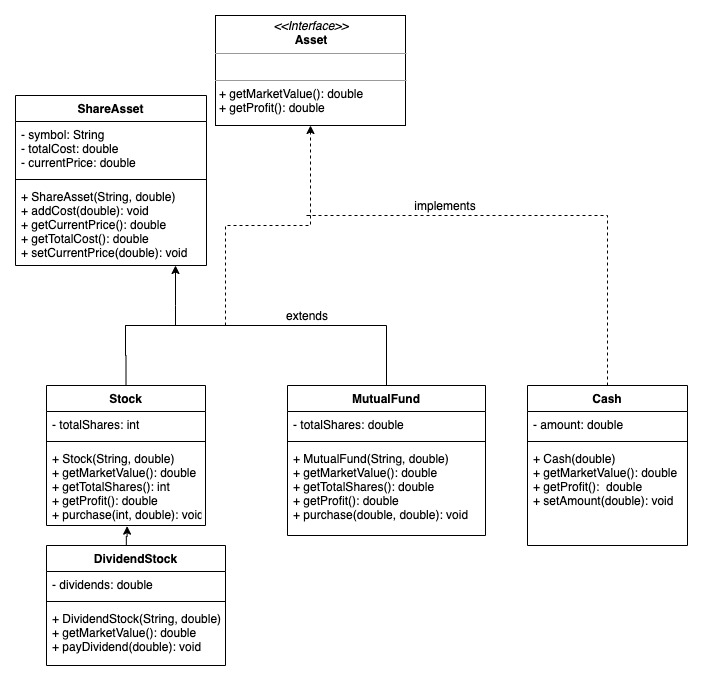
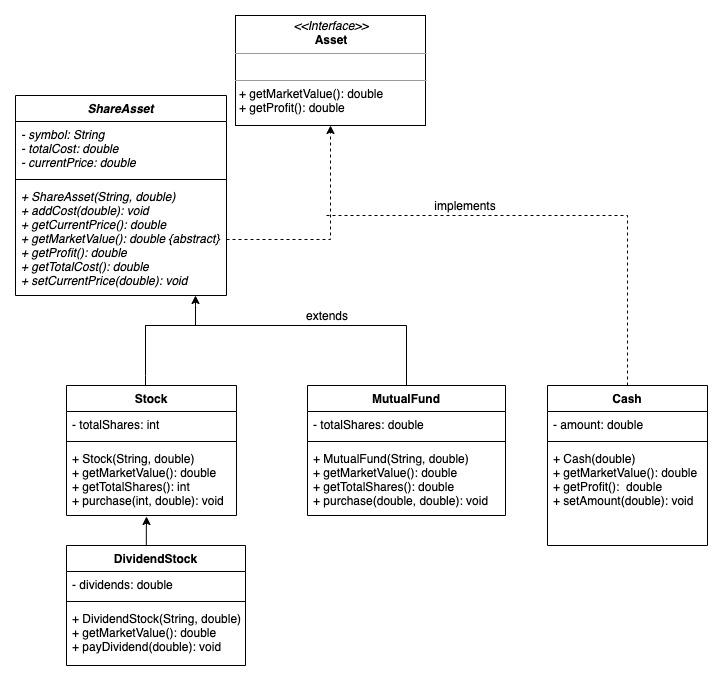
made changes to AssetUML Diagram and Stock, MutualFund, ShareAsset class

diff --git a/Classes/AssetInterface/ShareAsset.java b/Classes/AssetInterface/ShareAsset.java
@@ -1,6 +1,6 @@
 // A ShareAsset object represents a general asset that has a symbol
-// and holds shares. Initial version.
-public class ShareAsset
+// and holds shares.
+public abstract class ShareAsset implements Asset
 {
    private String symbol;
    private double totalCost;
@@ -24,6 +24,17 @@ public class ShareAsset
    public double getCurrentPrice()
    {
       return this.currentPrice;
+   }
+   
+   // returns the current market value of this asset
+   public abstract double getMarketValue();
+   
+   // returns the profit earned on shares of this asset
+   public double getProfit()
+   {
+      // calls an abstract getMarketValue method
+      // (the subclass will provide its implementation)
+      return getMarketValue() - this.totalCost;
    }
    
    // returns this asset's total cost for all shares

diff --git a/Classes/AssetInterface/MutualFund.java b/Classes/AssetInterface/MutualFund.java
@@ -1,7 +1,6 @@
 // A MutualFund object represents a mutual fund asset.
-// Initial version.
 
-public class MutualFund extends ShareAsset implements Asset
+public class MutualFund extends ShareAsset
 {
    private double totalShares;
    
@@ -24,12 +23,6 @@ public class MutualFund extends ShareAsset implements Asset
    public double getTotalShares()
    {
       return this.totalShares;
-   }
-   
-   // returns the profit made on this mutual fund
-   public double getProfit()
-   {
-      return getMarketValue() - super.getTotalCost();
    }
    
    // records purchase of the given shares at the given price

diff --git a/Classes/AssetInterface/Stock.java b/Classes/AssetInterface/Stock.java
@@ -1,7 +1,7 @@
 // A Stock object represents purchases of shares of a stock.
 // Initial version.
 
-public class Stock extends ShareAsset implements Asset
+public class Stock extends ShareAsset
 {
    private int totalShares;
    
@@ -24,12 +24,6 @@ public class Stock extends ShareAsset implements Asset
    public int getTotalShares()
    {
       return this.totalShares;
-   }
-   
-   // returns the profit made on this stock
-   public double getProfit()
-   {
-      return getMarketValue() - super.getTotalCost();
    }
    
    // records a purchase of the given number of shares of
